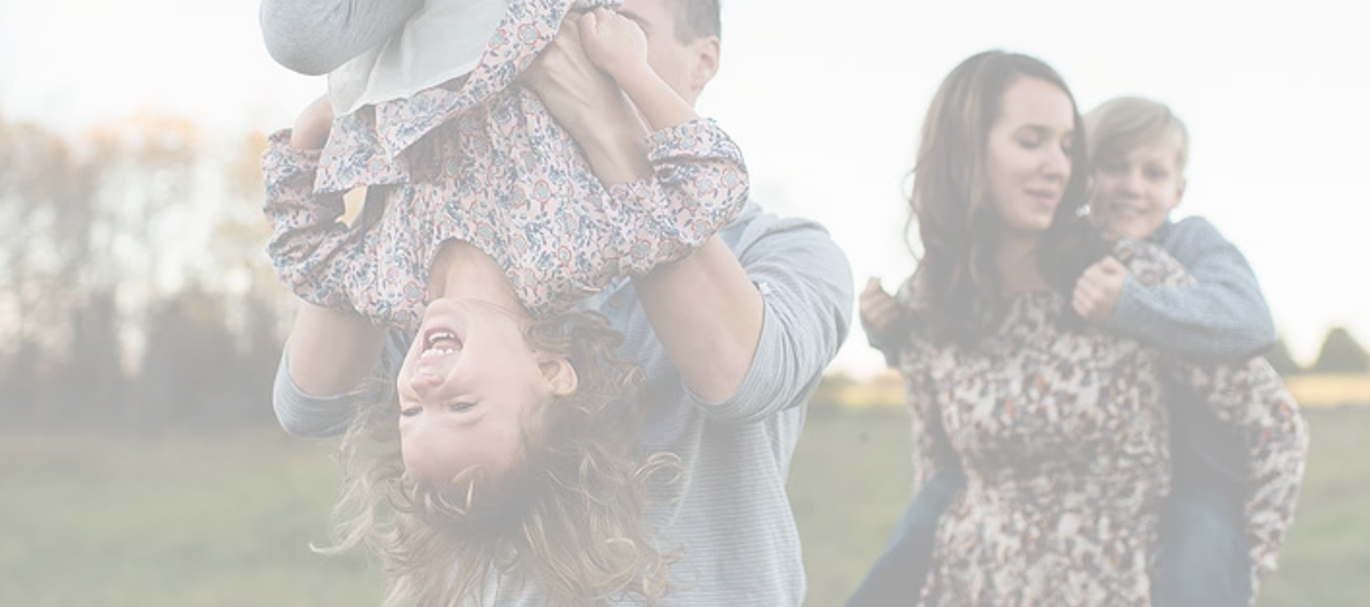
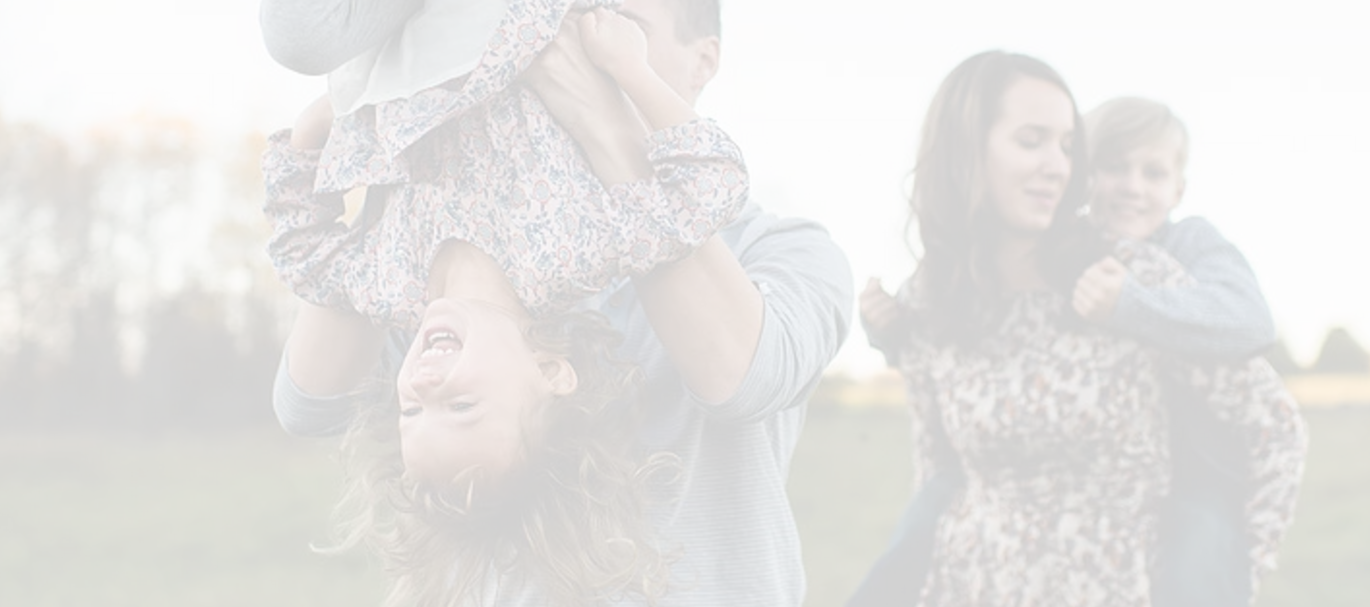
Modification

diff --git a/public/css/style.css b/public/css/style.css
@@ -227,6 +227,8 @@ h1 .title {
 .firstBulle {
 	margin-left: 24%;
 	background-image: url('/images/FamilyTime3.png');
+    background-repeat: no-repeat;
+  background-size: cover;
 	color: white;
 }
 
